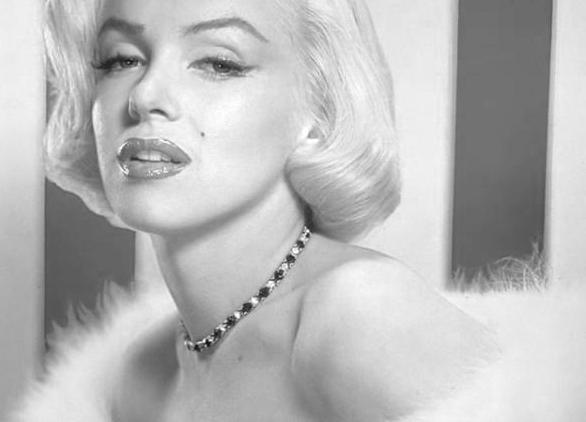
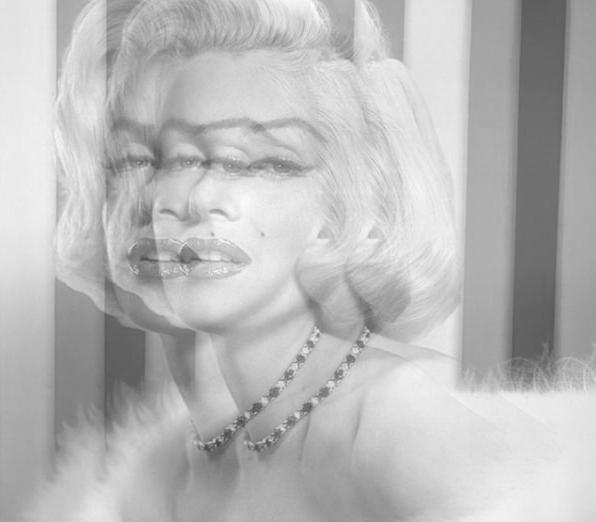
new commit

diff --git a/lessons4(нарезаем аватарку).py b/lessons4(нарезаем аватарку).py
@@ -1,80 +1,94 @@
 from PIL import Image
 
 
-# Здравствуйте, застрял начиная с step 5, шаги после мне тоже непонятны, прошу указать мне на ошибки и показать на моём примере как это все делается, 
-#инструкции максимально непонятные для новичка!
-
-
-
-# step 1
-# image = Image.open("example.jpg")                 # откроет фото
-# rotated_image = image.rotate(45)                  # повернёт на 45 градусов
-# rotated_image.save("rotated.jpg")                 # сохранит новое перевёрнутое фото
-
-# # step 2
-# cmyk_image = image.convert("CMYK")                # Выведет CMYK
-# print( "ширина"  , "высота", image.size)          # ширина 2560, высота 1600
-# print("Цветовая модель -" , cmyk_image.mode)      # цветовая модель CMYK
-
- 
-# step 3
-# image = Image.open("lenna.jpg")                   # Откроет файл
-# cmyk_image = image.convert("CMYK")
-# print( "ширина"  , "высота", image.size) 
-# print("Цветовая модель -" , cmyk_image.mode) 
-# image = image.convert("RGB")                      # Переведёт в RGB
-# print("Цветовая модель -" ,image.mode) 
-# print("ширина"  , "высота", image.size)
-
-# step 4
-# image = Image.open("monro.jpg")                     # откроет фото 
-# red, green, blue = image.split()                    # В переменные запишутся 3 чёрно-белые картинки.
-# red.save("red.image.jpg")                           # сохранил красную картинку отдельно
-# green.save("green.image.jpg")                       # сохранил зелёную картинку отдельно
-# blue.save("blue.image.jpg")                         # сохранил синий картинку отдельно
-
-
-
-
-
-#Если я удаляю главное фото, происходит ошибка!!!
-# #step 5
-# red_color = 'red'                                   # переменые
-# green_color = 'green'                               # переменые
-# blue_color = 'blue'                                 # переменые
-
-# tuple()                                             # создаст кортеж
-# merlin_monro = (red_color, green_color, blue_color) # Функция создает кортеж — tuple() поместил в него переменные цветов
-# merlin_monro = Image.open("merlin_monro.jpg")
-# print(merlin_monro)                                 # red   green   blue
-# merlin_monro = Image.merge("RGB", (red, green, blue))  # соберёт картинку из каналов
-# merlin_monro.save("merlin_monro.jpg")                  # сохранит картинку с названием merlin_monro
-# merlin_monro = Image.open("merlin_monro.jpg")    
-
-
-
-# step 7 Нужно наложить красный канал сам на себя.КАК НАЛОЖИТЬ ИХ ДРУГ НА ДРГА??? (видимо я как то неправильно копирую файлы с цветами)
-# сохранил 2 разные картинки с названиями red.TEST, red.TEST2.jpg 
-
-
 image = Image.open("monroTEST.jpg")
+print( "ширина" , "высота", image.size)
 red, green, blue = image.split()
 red.save("red.TEST.jpg")
 red.save("red.TEST2.jpg")
-image1 = Image.open("red.TEST.jpg")             #красная картинка1
-image2 = Image.open("red.TEST2.jpg")            #красная картинка2
-image3 = Image.blend(image1, image2, 0.10)      #Почему они не накладываются друг на друга?
-print( "ширина" , "высота", image3.size)
-image3 = image1.crop((110, 100, 696, 522))      #обрезает 1 фото 
-image3 = image2.crop((456, 288, 696, 522))
-image3.save("IMAGE3.jpg")
+image1 = Image.open("red.TEST.jpg")                       
+image2 = Image.open("red.TEST2.jpg")                     
+image1 = image1.crop((100, 0, 696, 522))                    
+image2 = image2.crop((50, 0, 646, 522))                 
+image2.save("red.TEST2.jpg")
+image3 = Image.blend(image1, image2, 0.5)                
+image3.save("IMAGE3.jpg")                       # Красный канал сдвинул влево      
+
+
+#step8
+
+image = Image.open("monro.TEST2 BLUE.JPG")
+print( "ширина" , "высота", image.size)
+red, green, blue = image.split()
+blue.save("blue.TEST.jpg")
+blue.save("blue.TEST2.jpg")
+image11 = Image.open("blue.TEST.jpg")                       
+image22 = Image.open("blue.TEST2.jpg")
+image11 = image11.crop((0, 0, 596, 522)) 
+image11.save("blue.TEST.jpg") 
+image22 = image22.crop((50, 0, 646, 522))                      
+image22.save("blue.TEST2.jpg")
+image33 = Image.blend(image11, image22, 0.5)                  
+image33.save("IMAGE33.jpg")                       # Синий канал сдвинул вправо 
+print( "ширина" , "высота", image.size)
+
+
+#step9
+
+image = Image.open("monro.TEST2 GREEN.jpg")
+print( "ширина" , "высота", image.size)
+red, green, blue = image.split()
+green.save("green.TEST.jpg")
+# green.save("green.TEST2.jpg")
+image111 = Image.open("green.TEST.jpg")                       
+# image222 = Image.open("green.TEST2.jpg")
+
+
+image111 = image111.crop((50, 0, 646, 522))      # Обрезал зелёный канал слева 50 и справа 50   
+image111.save("green.TEST.jpg") 
+# image222 = image222.crop((0, 0, 646, 522))
+# image222.save("green.TEST2.jpg")
+# image333 = Image.blend(image111, image222, 0.5)                  
+# image333.save("IMAGE333.jpg")                
+# print( "ширина" , "высота", image.size)
+
+
+#step10
+
+image444 = Image.blend(image3, image33, 0.5)     # Накладываю сначала синий и красный канал друг на друга
+image444.save("NEWIMAGE.jpg")                    # Результат 
 
 
 
+image555 = Image.blend(image111, image444, 0.5)  # Потом накладываю полученный результат т.е "image444"("NEWIMAGE.jpg") на зелёный канал image111("green.TEST.jpg")
+image555.save("THEEND.jpg")                      # Результат  image555("THEEND.jpg")
 
 
+image3 = Image.open("IMAGE3.jpg")
+image33 = Image.open("IMAGE33.jpg")
+image111 = Image.open("green.TEST.jpg")
+image4444 = Image.blend(image3, image33, 0.5)     # Попытался сложить все 3 канала сразу, но потом удалил 1 канал из за ошибки 
+image4444.save("THEEND1111111111.jpg")
+
+image4444 = Image.open("THEEND1111111111.jpg")
+image111 = Image.open("green.TEST.jpg")
+image999 = Image.blend(image4444, image111, 0.5 )
+image999.save("11.jpg")                           # Попытался сделать то же самое  но результат получился не такой
+                                                  # Возможно вы забыли сохранить результат одной из операций над каналами.
+
+# Вот схема эффекта ещё раз:
+
+# Обрезаем у красного канала 50 пикселей слева
+# Обрезаем у красного канала по 25 пикселей слева и справа
+# Склеиваем красные каналы в один
+# Обрезаем у синего канала 50 пикселей справа
+# Обрезаем у синего канала по 25 пикселей слева и справа
+# Склеиваем синие каналы в один
+# Обрезаем у зелёного канала 25 пикселей слева и справа
+# Собираем картинку из каналов под пунктами 3, 6 и 7 в этой схеме         Так тоже делал .        
 
 
+# Как мне правильно наложить их друг на друга, в сдвиге думаю проблем нет, так как код работает?
 
 
 
